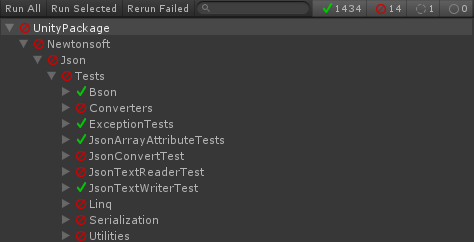
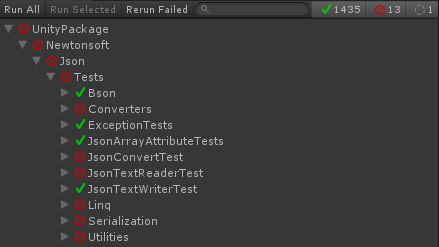
More docs about unit-test

Changed region(s): [[0.0592, 0.2314, 0.5034, 1.0], [0.0, 0.0, 1.0, 0.0868], [0.0296, 0.0868, 0.2665, 0.2025]]

diff --git a/docs/UnitTest.md b/docs/UnitTest.md
@@ -2,20 +2,43 @@
 
 ![Test](https://raw.githubusercontent.com/SaladbowlCreative/Json.Net.Unity3D/master/docs/UnitTestResult.png)
 
-## What failed
+## Failed tests
 
-### DateTimeFormat with CultureInfo doesn't cover all locale
+- Newtonsoft.Json.Tests.Converters.IsoDateTimeConverterTests
+  - SerializeFormattedDateTimeNewZealandCulture
+- Newtonsoft.Json.Tests.JsonConvertTest
+  - WriteDateTime
+- Newtonsoft.Json.Tests.JsonTextReaderTest
+  - ReadAsDateTimeOffsetIsoDate
+- Newtonsoft.Json.Tests.Linq.JTokenReaderTest
+  - ReadAsDateTimeOffset_String
+  - ReadAsDateTimeOffsetString
+- Newtonsoft.Json.Tests.Serialization.JsonSerializerTest
+  - DateFormatStringWithDateTimeOffset
+  - DateFormatStringWithDictionaryKey_DateTimeOffset
+  - DateFormatStringWithDictionaryKey_DateTimeOffset_ReadAhead
+  - DateTimeDictionaryKey_DateTime_Iso
+  - DateTimeDictionaryKey_DateTime_Iso_Local
+  - DateTimeDictionaryKey_DateTimeOffset_Iso
+- Newtonsoft.Json.Tests.Utilities.DateTimeUtilsTests
+  - NewDateTimeOffsetParse
+  - NewDateTimeParse
 
-##### ReadAsDateTimeOffsetIsoDate
+## Why did tests fail?
+
+Most of them failed because DateTime and DateTimeOffset in Unity3D-Mono
+cannot handle UTC formatted string well. (postfix Z or +09:00, fraction part of ISO time.)
+
+For example, ReadAsDateTimeOffsetIsoDate failed with this message because
+DateTimeOffset didn't get UTC timezone in parsing "2011-08-01T21:25Z".
 
 ```
 Expected: 08/01/2011 21:25:00 +00:00
   But was:  08/01/2011 21:25:00 +09:00
 ```
 
-### DateTimeOffset cannot parse formatted string well
-
-##### SerializeFormattedDateTimeNewZealandCulture
+SerializeFormattedDateTimeNewZealandCulture failed because DateTime in Unity3D-Mono
+generated different date-time string from .NET one.
 
 ```
 Expected string length 40 but was 32. Strings differ at index 1.
@@ -24,7 +47,8 @@ Expected string length 40 but was 32. Strings differ at index 1.
   ------------^
 ```
 
-##### DateFormatStringWithDateTimeOffset
+DateFormatStringWithDateTimeOffset failed because DateTimeOffset in Unity3D-Mono
+cannot parse user-defined time format well such as "yyyy'-pie-'MMM'-'dddd'-'dd".
 
 ```
 Newtonsoft.Json.JsonReaderException : Could not convert string to DateTimeOffset:

diff --git a/README.md b/README.md
@@ -50,8 +50,19 @@ Tests in Json.NET are updated to be able to run under
 All tests pass under Microsoft .NET 3.5 but with UnityEditor some of them fail
 because there are not-implemented features and bugs in Unity3D-Mono framework.
 
-Result:
-![Test status](https://raw.githubusercontent.com/SaladbowlCreative/Json.Net.Unity3D/master/docs/UnitTestSummary.png) [Detailed Description](./docs/UnitTest.md)
+Test Result:
+
+| Profile        |:white_check_mark: Passed | :x: Failed | :white_circle: Ignored |
+| :------------- | -----------------------: | ---------: | ---------------------: |
+| Microsoft.NET  |                     1448 |          0 |                      1 |
+| Unity3D-Mono   |                     1435 |         13 |                      1 |
+
+Detailed Description is [here](./docs/UnitTest.md) to tell you what failed and why.
+
+## Unity Compatibility
+
+This library is tested on Unity 4.7, 5.2 and 5.3. For AOT environment like iOS, you
+need to use IL2CPP instead of obsolute Mono-AOT because IL2CPP handles generic code better than Mono-AOT. With Mono-AOT configuration, AOT related exception would be thrown.
 
 ## FAQ
 
